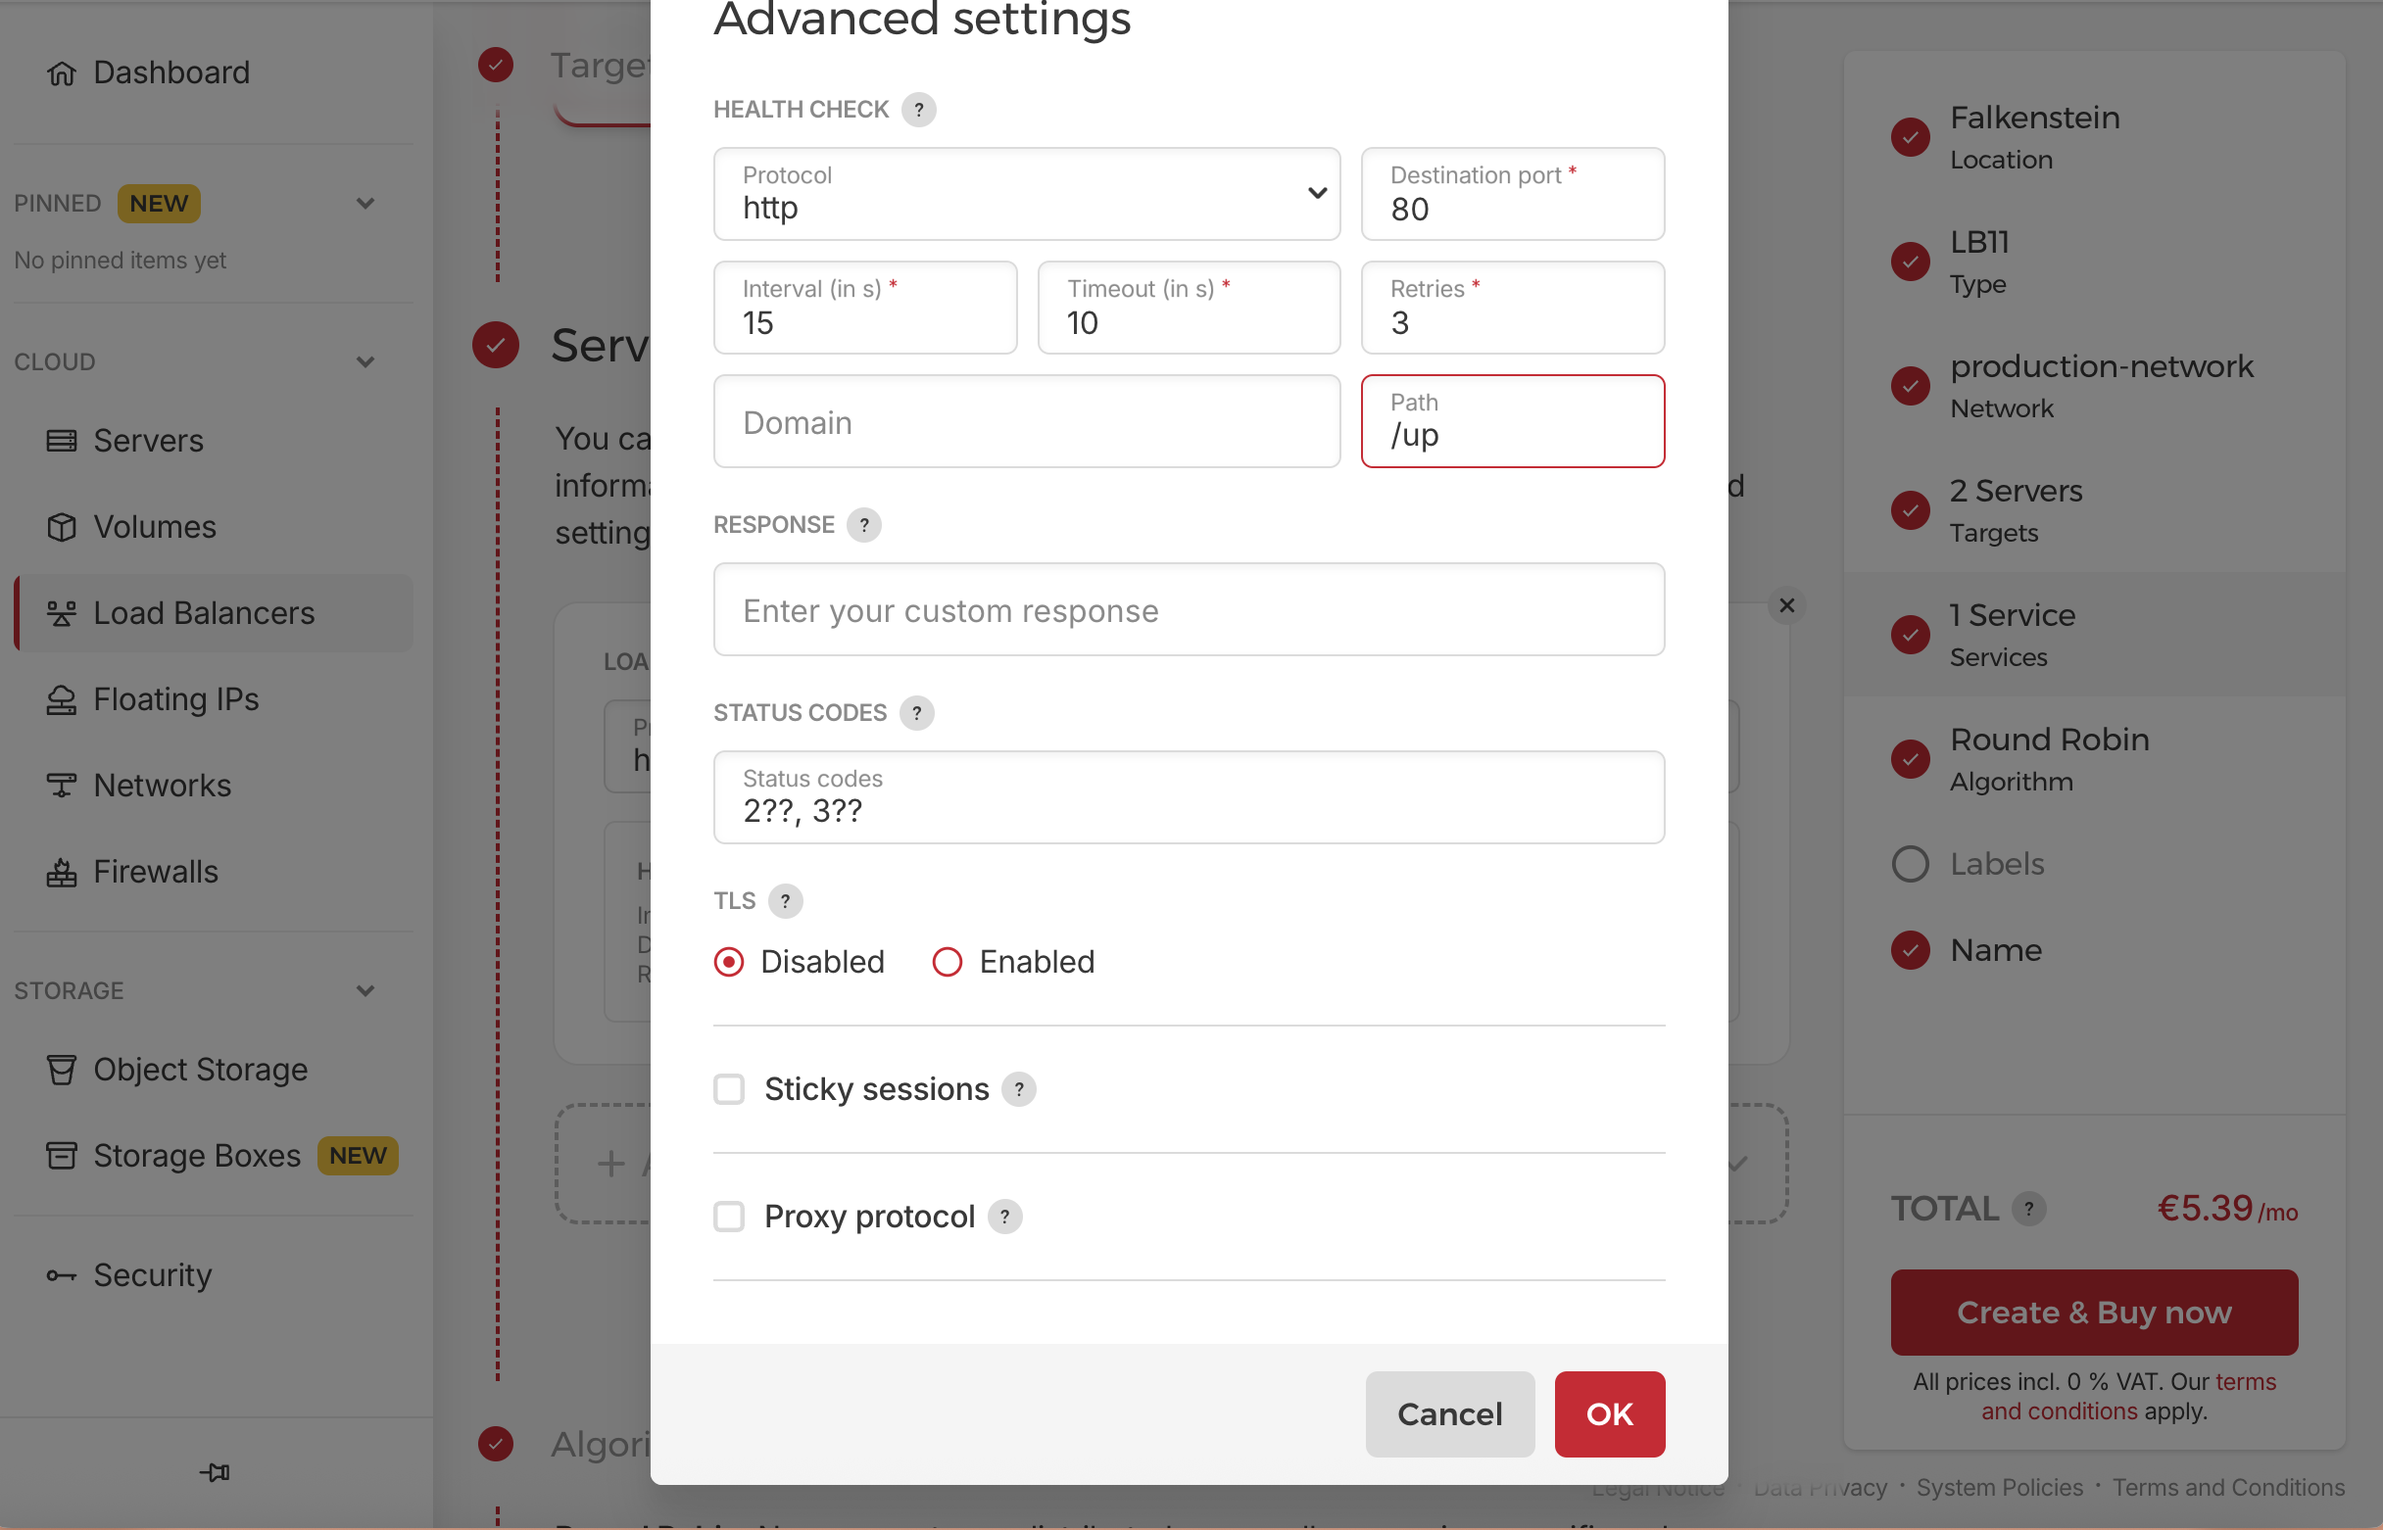
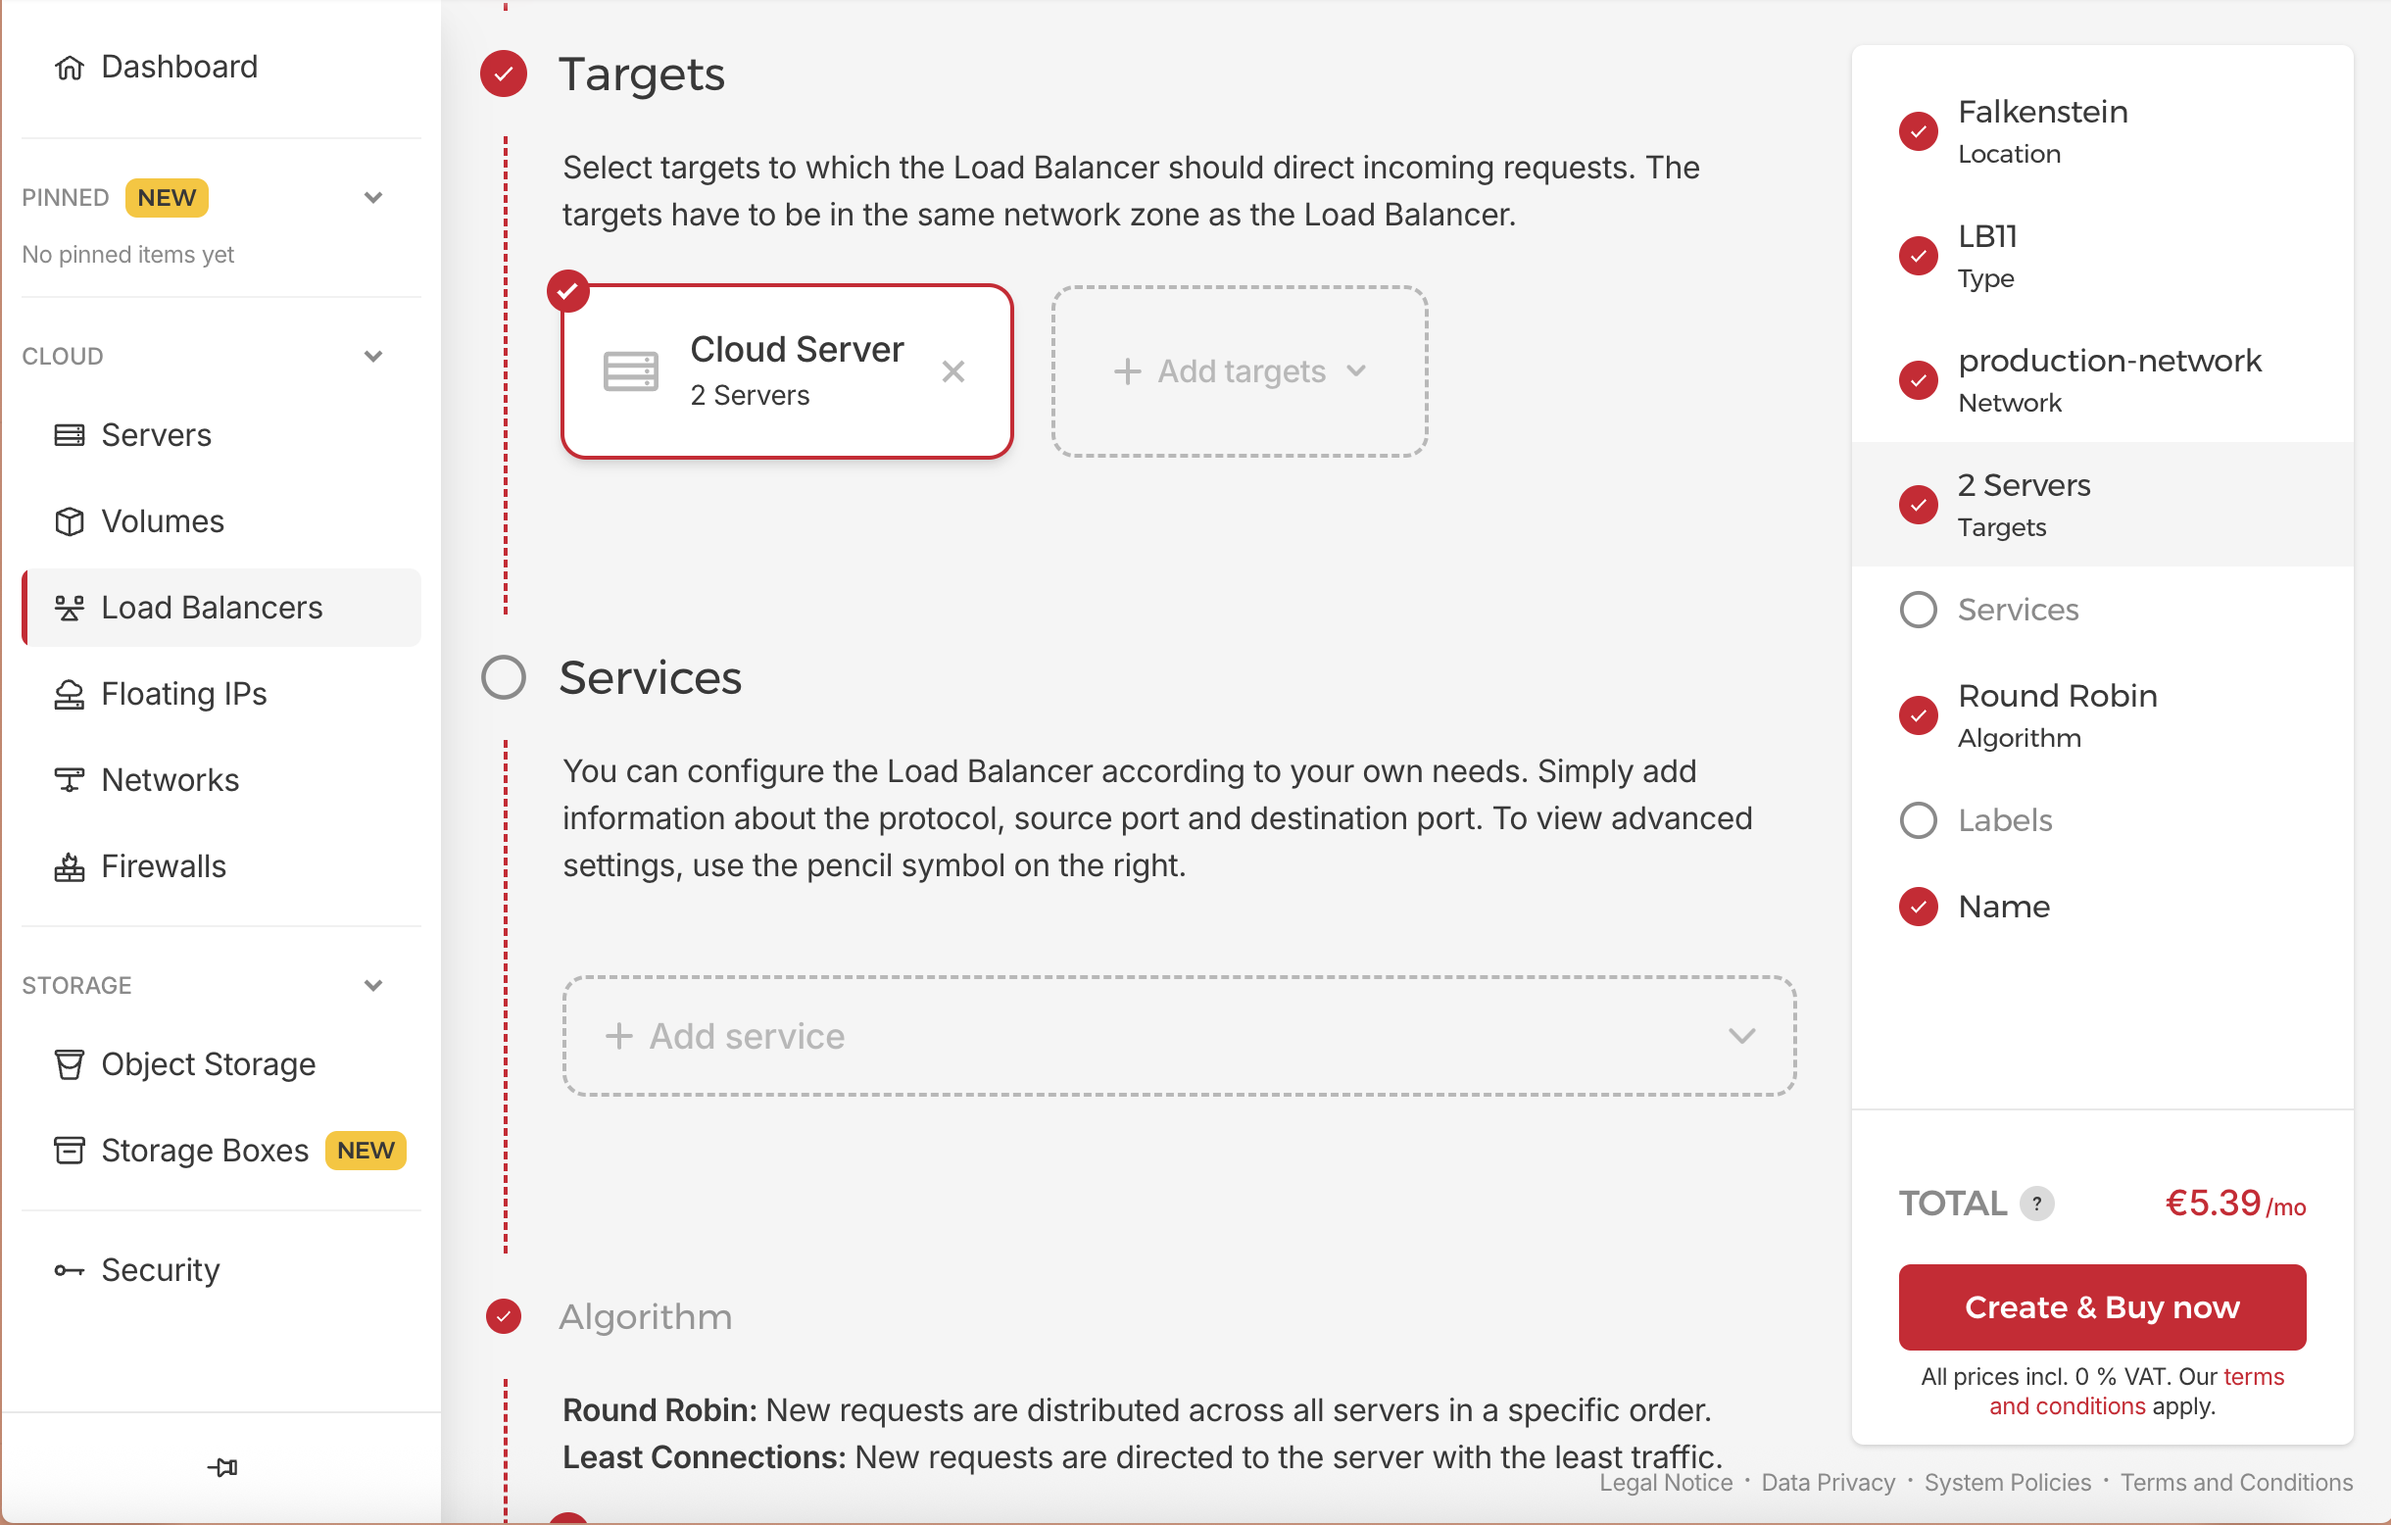
fix(post): update LB service configuration and CloudFlare SSL setup instructions for clarity

diff --git a/_posts/2025-07-28-a-production-ready-architecture-for-rails-apps-on-hetzner-cloud.md b/_posts/2025-07-28-a-production-ready-architecture-for-rails-apps-on-hetzner-cloud.md
@@ -660,19 +660,7 @@ In the left menu, select "Load Balancers" and then click "Create Load Balancer".
       * Then at the right side, select our app servers
         - app-01
         - app-02
-    - **Services**:
-      * Click on Edit button (pen icon) right side of the existing service
-      * Configure service, Keep the default values just change the path to `/up` (our rails check domain):
-        - Protocol: HTTP
-        - Port: 80
-        - Path: `/up`
-        - Interval: 15s
-        - Timeout: 5s
-        - Retries: 3
-        - Status Codes: ["2??", "3??"]
-        - Domain: leave it empty
-        - Reponse: leave it empty
-        - TLS: Disabled
+    - **Services**: Delete the existing service, we will create it later.
 
 ![lb-targets](lb-targets.png){: .normal}
 ![lb-services](lb-services.png){: .normal}
@@ -694,36 +682,80 @@ This is your first line of defense and performance optimization.
 
 ### Step 8.1: Generate CloudFlare Origin Certificate
 
-For maximum security, use "Full (Strict)" SSL mode:
-
-1. **In CloudFlare Dashboard**:
+1. **In CloudFlare Dashboard for your domain**:
    - Go to SSL/TLS → Origin Server
    - Click "Create Certificate"
    - Keep default settings and generate
-   - Copy both certificate and private key
+   - Now you can see certificate and private key. which we will use in the next step.
+
+![cloudflare-origin](cloudflare-origin.png){: .normal}
+![cloudflare-create](cloudflare-create.png){: .normal}
+![cloudflare-keys](cloudflare-keys.png){: .normal}
 
 ### Step 8.2: Upload Certificate to Load Balancer
 
 1. **In Hetzner Cloud Console**:
-   - Go to Load Balancers → rails-lb → Services
-   - Edit your HTTPS service
-   - Under Certificates → Add certificate → Upload certificate
-   - Paste CloudFlare origin certificate and private key
+   - Go to Load Balancers → Click on rails-lb → Go to Services tab
+   - Click on **Add Service** -> **New Service**:
+      - **Protocol**: HTTPS
+      - **Listen Port**: 443
+      - **Destination Port**: 80
+      - **HTTP Redirect**: Enabled (to redirect HTTP to HTTPS)
+    - Click on **Add Certificate**
+      - In the right side, Click on **Add Certificate** then **Upload Certificate**
+      - Name: `cloudflare-certificate-1`
+      - Paste CloudFlare origin certificate and private key from previous step
+        - **Certificate**: Paste the Origin Certificate content from CloudFlare
+        - **Private Key**: Paste the Private Key content from CloudFlare
+      - And click on Save Certificate button
+
+![lb-certificates](lb-certificates.png){: .normal}
+
+    - Click on Edit button (pen icon) right side of the existing service
+      - Keep everything as it is just change the path to `/up` (our rails health check url)
+      - **Health Check**:
+        - Protocol: HTTP
+        - Port: 80
+        - Path: `/up`
+        - Interval: 15s
+        - Timeout: 5s
+        - Retries: 3
+        - Status Codes: ["2??", "3??"]
+        - Domain: leave it empty
+        - Reponse: leave it empty
+        - TLS: Disabled
+
+![lb-health-check](lb-health-check.png){: .normal}
 
 ### Step 8.3: Configure DNS and SSL
 
+Go back to Cloudflare dashboard and configure the following for your domain:
+
 1. **DNS Records**:
+
+- In the left side click on **DNS** and then click on **Records** button:
+- Then click on **Add Record** button and add the following record:
+
    ```
    Type: A
-   Name: yourdomain.com
+   Name: @
    Content: LOAD_BALANCER_PUBLIC_IP
    Proxy: Enabled (orange cloud)
    ```
 
+- Replace `LOAD_BALANCER_PUBLIC_IP` with the public IP of your **Hetzner Load Balancer**.
+- and click on **Save**
+
+![dns-add-record](dns-add-record.png){: .normal}
+![dns-lb-ip](dns-lb-ip.png){: .normal}
+
 2. **SSL/TLS Settings**:
-   - Set encryption mode to "Full (strict)"
-   - Enable "Always Use HTTPS"
-   - Enable "HTTP Strict Transport Security (HSTS)"
+
+- In the left side click on **SSL/TLS** and then click on **Edge Certificates**:
+  - Enable "Always Use HTTPS"
+  - You can enable "HTTP Strict Transport Security (HSTS)" as well.
+
+![use-https](use-https.png){: .normal}
 
 # Step 9: Firewall Configuration
 
